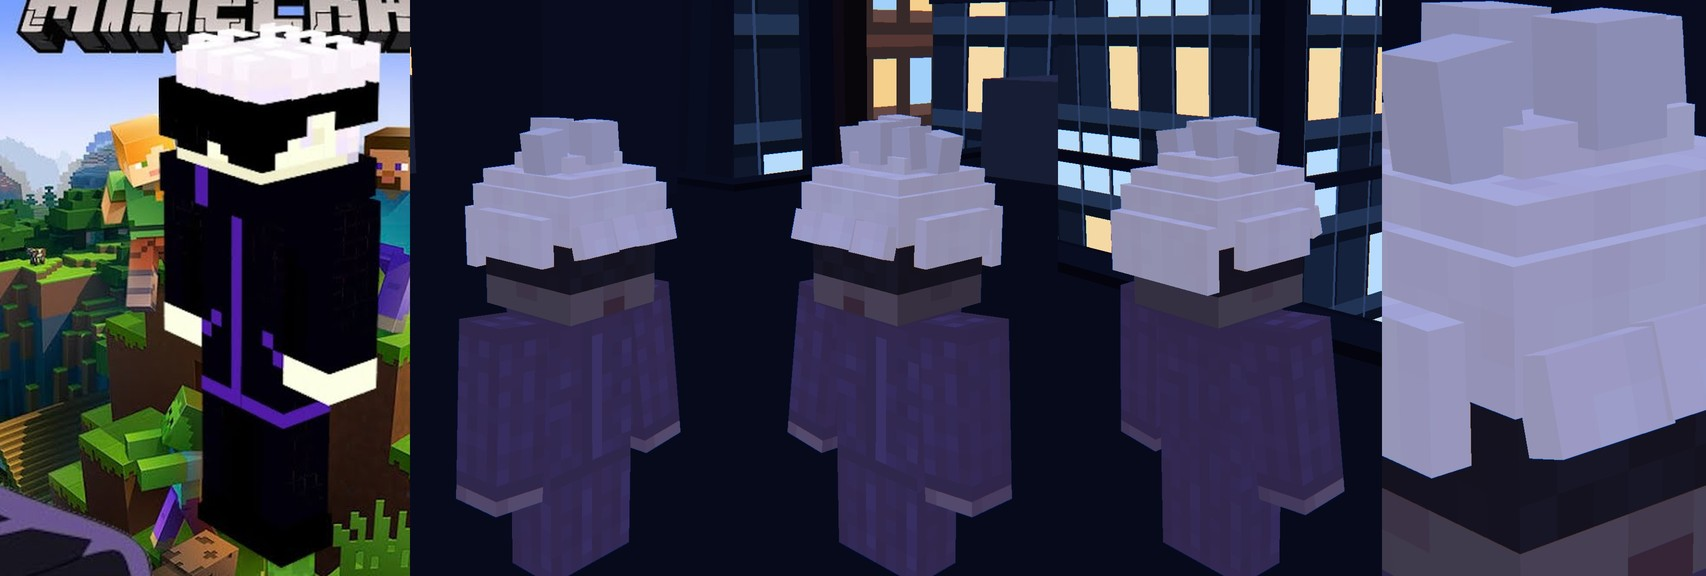
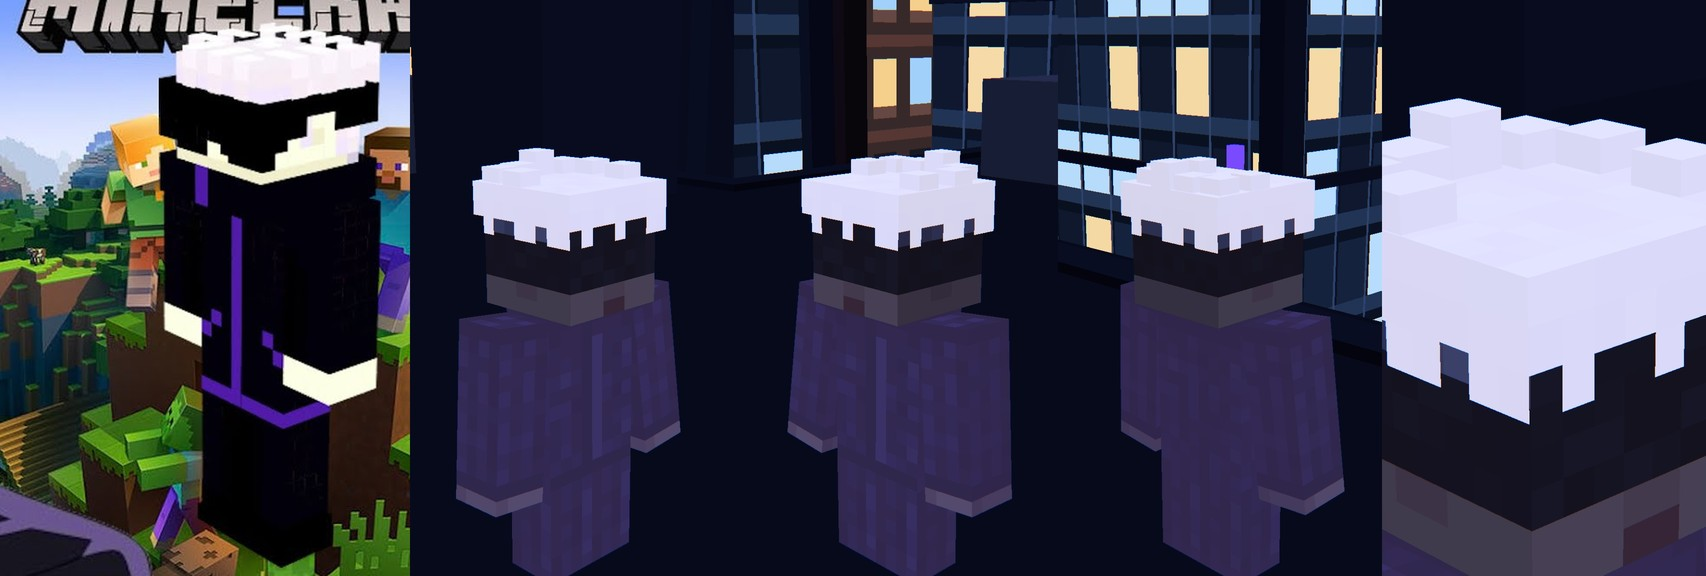
Fix #8 redo: copy Gojo hair exactly (flat slab with studs and stepped lower edge)
Claude-Session: https://claude.ai/code/session_01S56hgemtkMbZ6x2faBPqWi

diff --git a/minecraft-short-gojo/src/chars.js b/minecraft-short-gojo/src/chars.js
@@ -314,20 +314,16 @@ const gojoPaint = {
 };
 export function makeGojo(scene) {
   const C = makeChar(gojoPaint, scene);
-  // 髪: 頭を包むふんわりした白い層(マイクラのスキンの外側レイヤー)+その上の段+前髪+後ろ髪+上の小さな房
-  const HP = ['#d8cfe8', '#e6def2', '#f0eaf8', '#f8f4fc', '#ffffff', '#f4e4f2'];
-  const hairPaint = (f, x, w, h) => { mottle(x, w, h, HP, 81, 0.65); if (f === 'top') mottle(x, w, h, HP, 82, 0.2); };
-  const hmats = []; const hp = (a, b, c, px, py, pz) => { const m = part(a, b, c, hairPaint, false, hmats); m.position.set(px * PX, py * PX, pz * PX); C.head.add(m); return m; };
-  hp(9, 3, 9, 0, 2.6, 0);          // 頭を覆う外側の層(上3段)
-  hp(8, 1, 8, 0, 4.6, 0.0);        // その上の段
-  hp(5, 1, 5, 0.2, 5.6, -0.3);     // さらに上の小さな段
-  hp(3, 2, 1, -2.8, 1.4, 4.9).rotation.x = -0.25; hp(3, 2, 1, 0, 1.5, 5.0).rotation.x = -0.3; hp(3, 2, 1, 2.8, 1.4, 4.9).rotation.x = -0.25; // 額の前髪
-  hp(9, 4, 1, 0, 0.5, -4.9);       // 後ろ髪(首の近くまで)
-  hp(1, 3, 6, -4.9, 1.2, 0); hp(1, 3, 6, 4.9, 1.2, 0); // 側頭部の髪
-  const tm = [0xf4f0fa, 0xe6def2, 0xffffff].map(c => new THREE.MeshLambertMaterial({ color: c, emissive: 0x7a768a })); tm.forEach(m => C.mats.push(m));
-  [[-2.8, 6.4, 0.6, 0.12], [-0.8, 7.0, -0.8, -0.05], [1.8, 6.6, 0.8, 0.1], [3.0, 6.2, -0.6, -0.14], [0.2, 6.9, 1.8, 0.02]].forEach(([x, y, z, rz], n) => { const m = new THREE.Mesh(new THREE.BoxGeometry(2.0 * PX, 2.6 * PX, 2.0 * PX), tm[n % 3]); m.position.set(x * PX, y * PX, z * PX); m.rotation.z = rz; C.head.add(m); }); // 上の房
-  hmats.forEach(m => { m.emissive.set(0x8a869a); });
-  C.mats.slice(0, -3).forEach((m, i) => m.emissive.set(i >= 6 && i < 12 ? 0x12101a : 0x30264a));
+  // 髪(参考画像を完全再現): 頭の上3段を覆う、天面が平らな四角い白い板。天面の縁に小さな突起(スタッド)が並ぶ。下の縁は階段状にギザギザで、その下に黒い目隠しが見える。
+  const HP = ['#fbf6ff', '#f7f1fd', '#f2eafb', '#ffffff'];
+  const STEP = [0, 2, 3, 6]; // 下の縁で髪が欠ける列(階段状)
+  const hairPaint = (f, x, w, h) => { mottle(x, w, h, HP, 81, 0.1); if (f !== 'top' && f !== 'bottom') STEP.forEach(c => x.clearRect(c % w, h - 1, 1, 1)); if (f === 'front') x.clearRect(5, h - 1, 1, 1); };
+  const hmats = []; const slab = part(9, 3, 9, hairPaint, false, hmats); slab.scale.y = 1.12; slab.position.set(0, 2.62 * PX, 0); C.head.add(slab);
+  hmats.forEach(m => { m.alphaTest = 0.5; m.emissive.set(0xd2cee0); });
+  const sm = new THREE.MeshLambertMaterial({ color: 0xfbf6ff, emissive: 0xd2cee0 }); C.mats.push(sm);
+  [[-3.3, -3.1, 1.0], [-1.4, -3.5, 1.0], [0.5, -3.7, 1.7], [2.5, -3.2, 1.0], [3.6, -1.4, 1.0], [-3.6, -0.7, 1.0], [3.4, 1.6, 1.0]].forEach(([x, z, hgt]) => {
+    const m = new THREE.Mesh(new THREE.BoxGeometry(1.7 * PX, hgt * PX, 1.7 * PX), sm); m.position.set(x * PX, (4.3 + hgt / 2 - 0.05) * PX, z * PX); C.head.add(m); });
+  C.mats.slice(0, -1).forEach((m, i) => m.emissive.set(i >= 6 && i < 12 ? 0x12101a : 0x30264a));
   C.paint = gojoPaint; return C;
 }
 // 腕だけの別体(切断された腕など)

diff --git a/FIXES.md b/FIXES.md
@@ -20,3 +20,4 @@
 - [x] #6 解は「横向きの三日月」(社長のスケッチ)。刃が水平に寝て、横に長く、両端が細い。奥の相手に向かって画面を左右に横切る。巨大な解・領域を割る斬撃・腕を断つ斬撃のすべてを水平の刃に。ビルの切断も水平に(高さ36m)。カメラは手前の虎杖の後ろ上空から見下ろす角度に。確認用: out/preview_slash.mp4、out/preview_slash_domain.mp4(社長の確認待ち)
 - [x] #7 五条悟の外見を、社長のスキン画像に合わせて再現。白〜薄灰色の冠のように尖った髪、目を横一周する黒い目隠し、暗い青紫の斑模様の高襟ジャケットと長ズボン(胸の中央に縦の合わせ目)、袖口は肌の手、黒い靴。夜でも色が沈まないよう服の明るさを補正。目隠しなので、六眼(青い目)は見えない。屋上の縁の壁を低くして、足元が隠れないように。確認用: out/gojo_compare.jpg(社長の確認待ち)
 - [x] #8 五条の髪を修正(斜めから確認)。突起をやめ、マイクラの外側レイヤーのように、頭を包むふんわりした白い層+その上の2段+額の前髪3つ+後ろ髪+側頭部+上の小さな房5つ。夜でも白く見えるよう発光を補正。確認用: out/gojo_hair.jpg(社長の確認待ち)。メモ: 新しい参考画像の服は『黒+紫の縦線』。先のスキン画像(青紫の斑)とは違うため、どちらに合わせるか確認中。
+- [x] #8改 五条の髪を参考画像に完全コピー。頭の上3段を覆う、天面が平らな四角い白い板(外側レイヤー)+天面の縁に小さな突起(スタッド)7つ+下の縁は階段状にギザギザ(その下に黒い目隠しが見える)。前髪・側頭部・後ろ髪・段の重なりは無し(参考には無い)。夜でも真っ白に見えるよう発光を補正。確認用: out/gojo_hair.jpg(社長の確認待ち)
